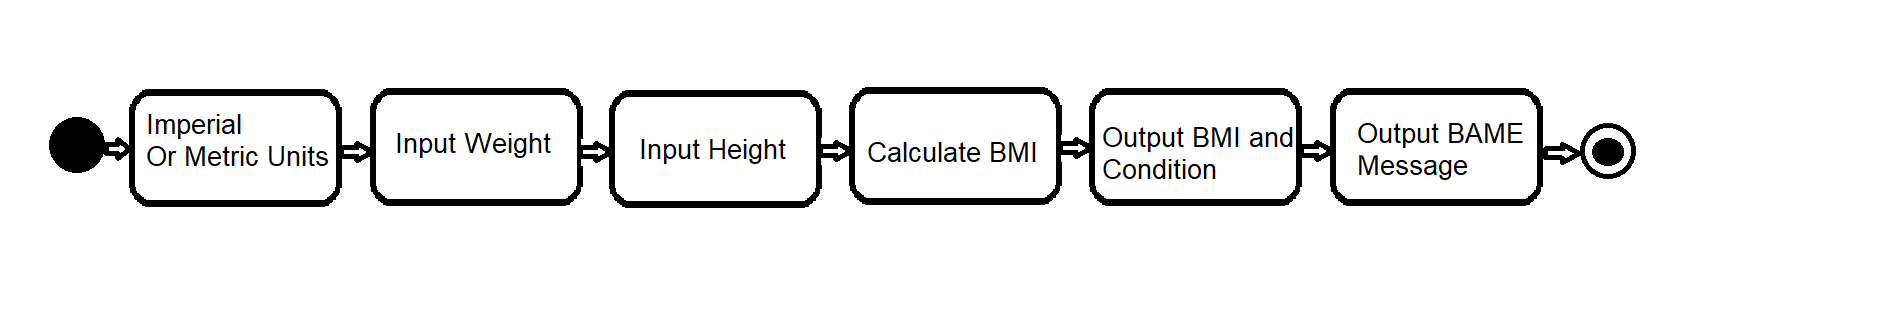
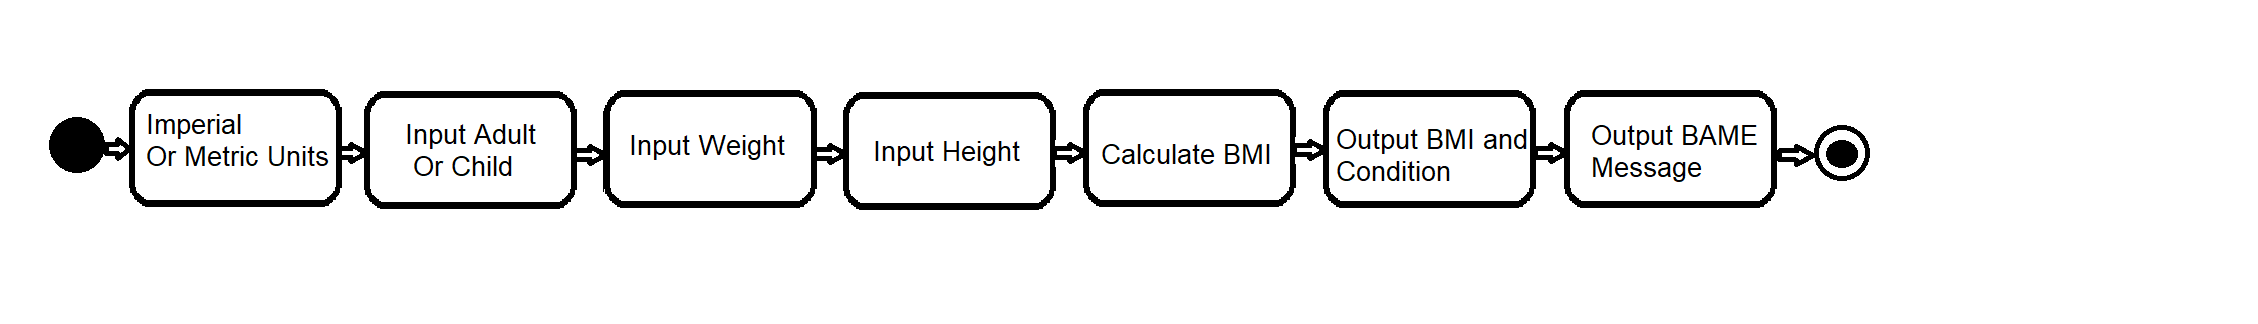
-Child BMI calculator added

Changed region(s): [[0.0, 0.2484, 0.8713, 0.6522]]

diff --git a/ConsoleAppProject/App02/BMI.cs b/ConsoleAppProject/App02/BMI.cs
@@ -4,7 +4,7 @@ using ConsoleAppProject.Helpers;
 
 namespace ConsoleAppProject.App02
 {
-    /// <summary>
+    /// <summary> 
     /// This app will allow the user to choose either imperial or metric units after which it 
     /// will prompt the user to input thier height and weight in the chosen units and then calculate
     /// their BMI(Body Mass Index) and tell the user if they are underweight, healthy, overweight 
@@ -13,6 +13,8 @@ namespace ConsoleAppProject.App02
     /// <author>
     /// Student Name version 0.1
     /// </author>
+    /// 
+
     public class BMI
     {
 
@@ -28,6 +30,18 @@ namespace ConsoleAppProject.App02
 
         public const double OBESEII = 39.9;
 
+        public string adult;
+
+        //Child Condition Constants
+
+        public const double CHILDUNDERWIGHT = 4;
+
+        public const double CHILDHEALTHY = 84;
+
+        public const double CHILDOVERWEIGHT = 94;
+               
+
+
         ///This is the first function that is called in the BMI program.
         ///This method outputs the program heading and then calls the select unit
         ///method to allow the user to choose between Imperial and Metric units.
@@ -35,23 +49,56 @@ namespace ConsoleAppProject.App02
         {
             Console.ForegroundColor = ConsoleColor.Cyan;
             ConsoleHelper.OutputHeading("BMI Calculator");
-            SelectUnit();
+            AdultOrChild();            
         }
 
+        public string AdultOrChild()
+        {
+            string[] choices = { "Adult", "Child", };
+            int adultOrChild = ConsoleHelper.SelectChoice(choices);
+            ExecuteAdultOrChild(adultOrChild);
+
+            return Convert.ToString(adultOrChild);
+        }
+
+        ///This method uses a con
+        public string ExecuteAdultOrChild(int adultOrChild)
+        {
+            if (adultOrChild == 1)
+            {
+                ConsoleHelper.OutputTitle("----You Have chosen Adult------");
+                adult = "1";
+                SelectUnit();             
+
+            }
+            else
+            {
+                ConsoleHelper.OutputTitle("----You Have chosen Child------");
+                adult = "2";
+                SelectUnit();               
+                
+            }
+
+            return null;
+        }
+
+        //---------------------Adult Unit------------------------------
         ///This method uses the ConsoleHelpers.SelectChoice method to display the menu and 
         ///prompts the user to input either 1 or 2 to select the units and then assigns the 
         ///output to the choice variable. The function then calls the ExecuteChoice method to
         ///determine which units to use.
         private string SelectUnit()
         {
-
+            Console.ForegroundColor= ConsoleColor.Cyan;
             string[] choices = { "Metric Units", "Imperial Units", };
             int choice = ConsoleHelper.SelectChoice(choices);
             ExecuteChoice(choice);
             return null;
 
         }
-
+        
+        
+        //----------------------Adult Execute choice---------------------------
         ///This method uses conditional statments to determine which units to use.
         ///If the user inputs 1 it calculates the BMI in metric units and if the user 
         ///inputs 2 it uses the Imerial units.
@@ -78,6 +125,9 @@ namespace ConsoleAppProject.App02
             return null;
         }
 
+       
+       
+        //--------------------------Input Metric----------------------
         ///This method is called if the user choses the metric units. It used the ConsoleHelper.InputDecimal
         ///method to validate the input by forcing the user to input either a Integar or a double. 
         ///this method also prints an error message if the user inputs anythig other then a number.
@@ -91,10 +141,12 @@ namespace ConsoleAppProject.App02
             double heightCM = ConsoleHelper.InputDecimal(" Enter Your Height In Centimeters > ");
             Console.WriteLine();
             CalculateMetric(weight, heightCM);
-
-
+           
             return weight;
         }
+            
+           
+        
 
         ///The calculateMetric is called if the choses the metric system.
         ///This method converts the height from centimeters to meters and then
@@ -105,15 +157,23 @@ namespace ConsoleAppProject.App02
             double height = heightCM / 100;
             double bmi = weight / (height * height);
             Console.WriteLine();
-            Console.ForegroundColor = ConsoleColor.Green;
-            Console.WriteLine($" Your BMI is: {bmi:f2}");
+            Console.ForegroundColor = ConsoleColor.Green;            
             Console.WriteLine();
-            BMIResult(bmi);
 
+            if (adult == "1")
+            {
+                Console.WriteLine($" Your BMI is: {bmi:f2}");
+                BMIResult(bmi);
+            }
+            else
+            {
+                Console.WriteLine($" Your BMI is: {bmi:f2} Percentile");
+                BMIChildResult(bmi);
+            }
             return bmi;
         }
 
-
+       
         ///This method is called if the user choses the imperial units. It used the ConsoleHelper.InputDecimal
         ///method to validate the input by forcing the user to input either a Integar or a double. 
         ///this method also prints an error message if the user inputs anythig other then a number.
@@ -140,11 +200,18 @@ namespace ConsoleAppProject.App02
             double heightFeet = (heightFT * 12) + heightIN;
             double bmi = weight * 703 / (heightFeet * heightFeet);
             Console.WriteLine();
-            Console.ForegroundColor = ConsoleColor.Green;
-            Console.WriteLine($" Your BMI is: {bmi:f2}");
+            Console.ForegroundColor = ConsoleColor.Green;            
             Console.WriteLine();
-            BMIResult(bmi);
-
+            if (adult == "1")
+            {
+                Console.WriteLine($" Your BMI is: {bmi:f2}");
+                BMIResult(bmi);
+            }
+            else
+            {
+                Console.WriteLine($" Your BMI is: {bmi:f2} Percentile");
+                BMIChildResult(bmi);
+            }
             return bmi;
         }
 
@@ -184,15 +251,35 @@ namespace ConsoleAppProject.App02
 
             Console.ForegroundColor = ConsoleColor.Red;
             ConsoleHelper.OutputTitle("If Your Black, Asian or Other Minority \n Ethnic Groups, You Have A Higher Risk \n Adults 23.0 Or More Are At Increased Risk \n Adults 27.5 Or More Are At High Risk");
-
             Console.ReadLine();
             return null;
-
-
         }
 
+        private string BMIChildResult(double bmi)
+        {
+            Console.ForegroundColor = ConsoleColor.Yellow;
 
+            if (bmi < CHILDUNDERWIGHT)
+            {
+                Console.WriteLine(" You Are Underweight.");
+            }
+            else if (bmi < CHILDHEALTHY)
+            {
+                Console.WriteLine(" You Are At A Healthy Weight.");
+            }
+            else if (bmi < CHILDOVERWEIGHT)
+            {
+                Console.WriteLine(" You Are Overweight.");
+            }            
+            else
+            {
+                Console.WriteLine(" You Are Obese .");
+            }
 
-
+            Console.ForegroundColor = ConsoleColor.Red;
+            ConsoleHelper.OutputTitle("If Your Black, Asian or Other Minority \n Ethnic Groups, You Have A Higher Risk \n Children 85th Or More Percentile Are At Increased Risk \n Children 95th Or More Percentile Are At High Risk");
+            Console.ReadLine();
+            return null;
+        }
     }
 }
